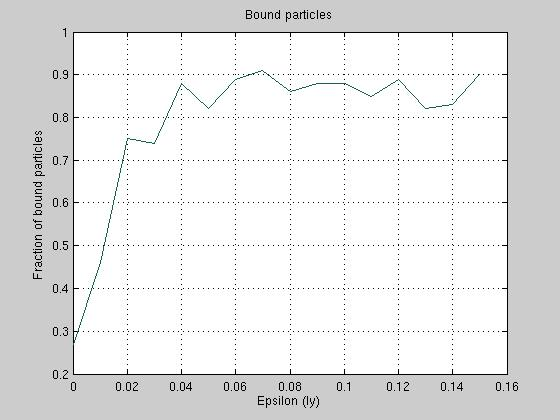
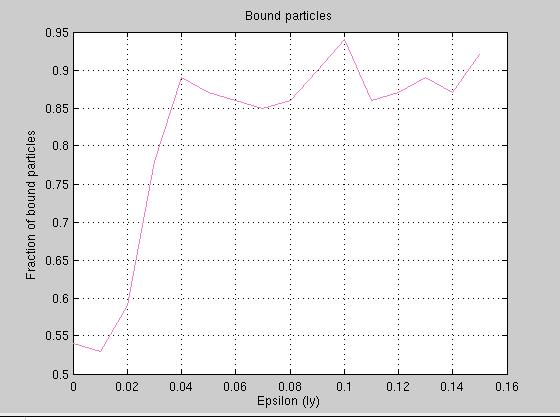
better epsilon plots ^^

diff --git a/Project5/EPSILON_SAT/PlotStuff.m b/Project5/EPSILON_SAT/PlotStuff.m
@@ -1,0 +1,46 @@
+fileToOpen = strcat('plotLeapfrog','.dat');
+fidPosi = fopen(fileToOpen);
+nbRows = 16;
+Plot_File = fscanf(fidPosi,'%g',[18 nbRows]).';
+fclose(fidPosi);
+bWantToSaveJPEG = true;
+filename = strcat('energyConservation.jpeg');
+
+% Init of our time vector
+t = [1 (nbRows)];
+for i = 1: (nbRows)
+    t(i) = Plot_File(i,2);
+end
+
+% Init of the vector holding the number of bound particles
+nbBounds = [1 (nbRows)];
+for i = 1: (nbRows)
+    nbBounds(i) = Plot_File(i,7);
+end
+
+% Init of the vector holding the number of bound particles
+nbBounds2 = [1 (nbRows)];
+for i = 1: (nbRows)
+    nbBounds2(i) = Plot_File(i,8);
+end
+
+% And then we plot !
+figure(1);
+hold on;
+plot(t(:),nbBounds(:),'color',rand(1,3));
+plot(t(:),nbBounds2(:),'color',rand(1,3));
+hold off;
+title(['Energy Conservation']);
+xlabel('Epsilon (ly)');
+ylabel('Relative change in energy (1 = 100%)');
+axis([0, 0.16, -0.2, 1]);
+grid on;
+
+% And eventually save the plot
+if (bWantToSaveJPEG == true)  
+    frame = getframe(1);
+    im = frame2im(frame);
+    [A,map] = rgb2ind(im,256); % To avoid 3D pictures
+    imwrite(A,map,filename,'jpeg'); 
+end
+    

diff --git a/Project5/EPSILON_SAT/PlotStuff2.m b/Project5/EPSILON_SAT/PlotStuff2.m
@@ -1,0 +1,38 @@
+fileToOpen = strcat('plotLeapfrog','.dat');
+fidPosi = fopen(fileToOpen);
+nbRows = 16;
+Plot_File = fscanf(fidPosi,'%g',[18 nbRows]).';
+fclose(fidPosi);
+bWantToSaveJPEG = true;
+filename = strcat('boundFraction.jpeg');
+
+% Init of our time vector
+t = [1 (nbRows)];
+for i = 1: (nbRows)
+    t(i) = Plot_File(i,2);
+end
+
+% Init of the vector holding the number of bound particles
+nbBounds = [1 (nbRows)];
+for i = 1: (nbRows)
+    nbBounds(i) = Plot_File(i,18);
+end
+
+% And then we plot !
+figure(1);
+%hold on;
+plot(t(:),nbBounds(:),'color',rand(1,3));
+%hold off;
+title(['Bound particles']);
+xlabel('Epsilon (ly)');
+ylabel('Fraction of bound particles');
+grid on;
+
+% And eventually save the plot
+if (bWantToSaveJPEG == true)  
+    frame = getframe(1);
+    im = frame2im(frame);
+    [A,map] = rgb2ind(im,256); % To avoid 3D pictures
+    imwrite(A,map,filename,'jpeg'); 
+end
+    
